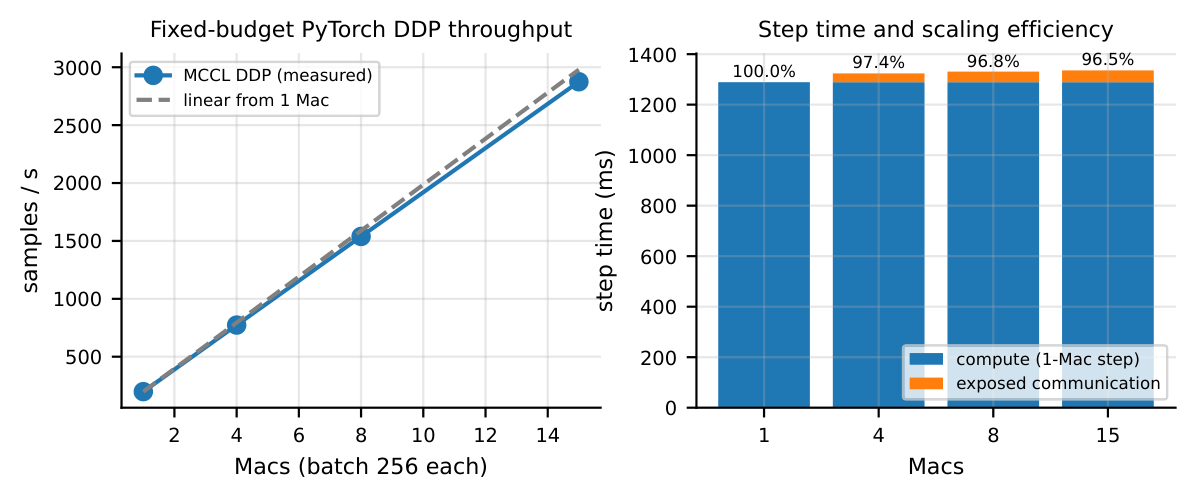
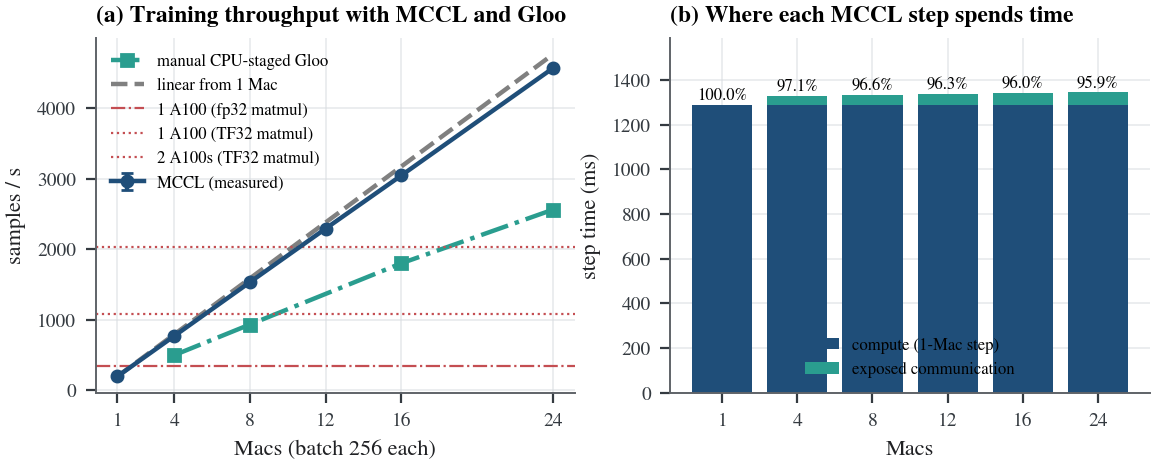
README: report 24-Mac runs at Skywalker Sound and refresh the figures.

diff --git a/README.md b/README.md
@@ -1,36 +1,39 @@
-# MCCL
+# MCCL (Metal Collective Communication Library)
 
 [![CI](https://github.com/mps-ddp/mccl/actions/workflows/ci.yml/badge.svg?branch=master)](https://github.com/mps-ddp/mccl/actions/workflows/ci.yml)
 [![PyPI](https://img.shields.io/pypi/v/mccl)](https://pypi.org/project/mccl/)
 [![Python](https://img.shields.io/pypi/pyversions/mccl)](https://pypi.org/project/mccl/)
 [![License: MIT](https://img.shields.io/badge/license-MIT-blue)](https://github.com/mps-ddp/mccl/blob/master/LICENSE)
 
-MCCL is a `torch.distributed` backend for Apple-silicon GPUs. It runs PyTorch DDP across
-Macs over standard Ethernet, and existing training code needs only `backend="mccl"`.
+MCCL is a `torch.distributed` backend for Apple-silicon GPUs. Training code selects it
+with `backend="mccl"`. It runs multi-node PyTorch over Ethernet, and has been run on up
+to 24 Macs at Skywalker Sound.
 
-PyTorch has no built-in distributed backend for MPS tensors, and Gloo accepts only CPU
-tensors, so every gradient bucket must be staged through host memory after a device
-synchronization. MCCL reduces gradients in place in unified memory and uses Metal shared
-events to order that work against PyTorch's MPS stream, so communication overlaps the
-backward pass.
+PyTorch has no distributed backend for MPS tensors, and Gloo accepts only CPU tensors, so
+a Gloo run copies every gradient bucket to CPU after a device synchronization. MCCL
+reduces gradients in place in unified memory and uses Metal shared events to order that
+work against PyTorch's MPS stream, so the allreduce overlaps the backward pass.
 
 ## Performance
 
-MCCL has run DDP jobs on up to 24 Macs, including full training runs to convergence. The
-measurements below come from a controlled pool of 15 Mac Studios (M4 Max, 40-core GPU,
-128 GB) on one 10 GbE switch with jumbo frames, using MCCL 6.8.0 and PyTorch 2.14.
+Measured on 24 Mac Studios at Skywalker Sound (M4 Max, 40-core GPU, 128 GB), one 10 GbE
+switch, jumbo frames, MCCL 6.8.0, and PyTorch 2.14.
 
 | Measurement | Result |
 | --- | --- |
-| 256 MB allreduce, averaged over 4–15 Macs | 99.7% of TCP goodput (1.234 GB/s bus bandwidth) |
-| Communication hidden behind backward (25 MB DDP buckets) | 94% at 4, 8, and 15 Macs |
-| 113.5M-parameter ViT on CIFAR-10, 1 → 15 Macs | 199 → 2,875 samples/s (96.5% scaling efficiency) |
-| 10-minute soak at 15 Macs | 18,884 allreduces per rank, zero incorrect elements |
-| CPU cost at line rate | about 0.25 of one core |
+| 256 MB allreduce, 4–24 Macs | 99.7% of TCP goodput at 24 Macs (1.234 GB/s bus bandwidth) |
+| Communication hidden behind gradient computation (25 MB buckets) | 94% at 4, 8, 16, and 24 Macs |
+| 113.5M-parameter ViT on CIFAR-10, 1 → 24 Macs | 198 → 4,568 samples/s (95.9% scaling efficiency; 1.78× CPU-staged Gloo) |
+| Same ViT on A100 80 GB GPUs | 1,088 samples/s on one GPU and 2,028 on two with TF32 matmul (24 Macs are 2.25× that two-GPU run). One A100 with fp32 matmul reaches 340 samples/s |
+| 31.6M-parameter ResNet on CIFAR-10, 400 steps, batch 64 per Mac | 42.0% validation accuracy on 1 Mac, 63.2% on 24 |
+| 10-minute soak at 24 Macs | 17,784 allreduces per rank, zero incorrect elements |
+| CPU cost at line rate | 0.31 cores |
 
 <p align="center">
-  <img src="https://raw.githubusercontent.com/mps-ddp/mccl/master/docs/images/coll_vs_nodes.png" width="85%" alt="Allreduce bus bandwidth and efficiency from 4 to 15 Macs">
-  <img src="https://raw.githubusercontent.com/mps-ddp/mccl/master/docs/images/cifar_scaling.png" width="85%" alt="ViT training throughput and scaling efficiency from 1 to 15 Macs">
+  <img src="https://raw.githubusercontent.com/mps-ddp/mccl/master/docs/images/coll_vs_nodes.png" width="85%" alt="Allreduce bus bandwidth and efficiency from 4 to 24 Macs">
+  <img src="https://raw.githubusercontent.com/mps-ddp/mccl/master/docs/images/overlap.png" width="55%" alt="Overlap of 25 MB bucket communication with GPU work at 4, 8, 16, and 24 Macs">
+  <img src="https://raw.githubusercontent.com/mps-ddp/mccl/master/docs/images/cifar_scaling.png" width="85%" alt="ViT training throughput from 1 to 24 Macs">
+  <img src="https://raw.githubusercontent.com/mps-ddp/mccl/master/docs/images/cifar_convergence.png" width="85%" alt="ResNet validation loss and accuracy versus optimizer step from 1 to 24 Macs">
 </p>
 
 ## Installation
@@ -147,27 +150,18 @@ per Mac, withholds implicit GPU synchronization, and checks every output element
 
 ## Known issue: MPS reflect-padding gradients
 
-On PyTorch 2.14 and macOS 15.7, the MPS backward pass of reflect padding silently returns
-wrong gradients for inputs longer than 2¹⁶ samples, or from 2¹⁶ for multi-channel inputs.
-Centered `torch.stft` pads a batch as channels, so batched spectral losses on clips longer
-than about 1.4 s at 48 kHz train on wrong gradients with no error or NaN. Validate GPU losses
-against a CPU reference; `mccl.transforms.stft(..., backend="vdsp")` is an independent
-Accelerate implementation suitable for that check.
+On PyTorch 2.14 and macOS 15.7, the MPS backward pass of reflect padding is exact up to
+65,535 samples (2¹⁶ − 1), silently returns wrong gradients above 2¹⁶ samples for single-channel
+inputs (except at exact multiples of 2¹⁶), and fails at every length ≥ 2¹⁶ when batch or
+channel count exceeds one. Centered `torch.stft` pads a batch as channels, so spectral
+losses on clips longer than about 1.4 s at 48 kHz train on wrong gradients with no error or
+NaN. Validate GPU losses against a CPU reference; `mccl.transforms.stft(..., backend="vdsp")`
+is an independent Accelerate implementation suitable for that check.
 
 ## Limitations
 
-- Small collectives are bound by network latency. With a 563 µs median TCP round trip, a
-  1 MB allreduce at 15 Macs reaches 13% of goodput.
-- MCCL uses a flat ring. A latency model fit to the 4–15-Mac measurements predicts that
-  25 MB buckets become latency-bound near 65 Macs; hierarchical allreduce is not yet
-  implemented.
-- The in-place path requires shared MPS storage, the PyTorch 2.14 default. Private storage
-  falls back to a staged path.
-
-## Paper
-
-An experience paper on MCCL's design and evaluation is forthcoming. The preprint link will
-be added here.
+The in-place path requires shared MPS storage, the PyTorch 2.14 default. Private storage
+falls back to a staged path.
 
 ## License
 
